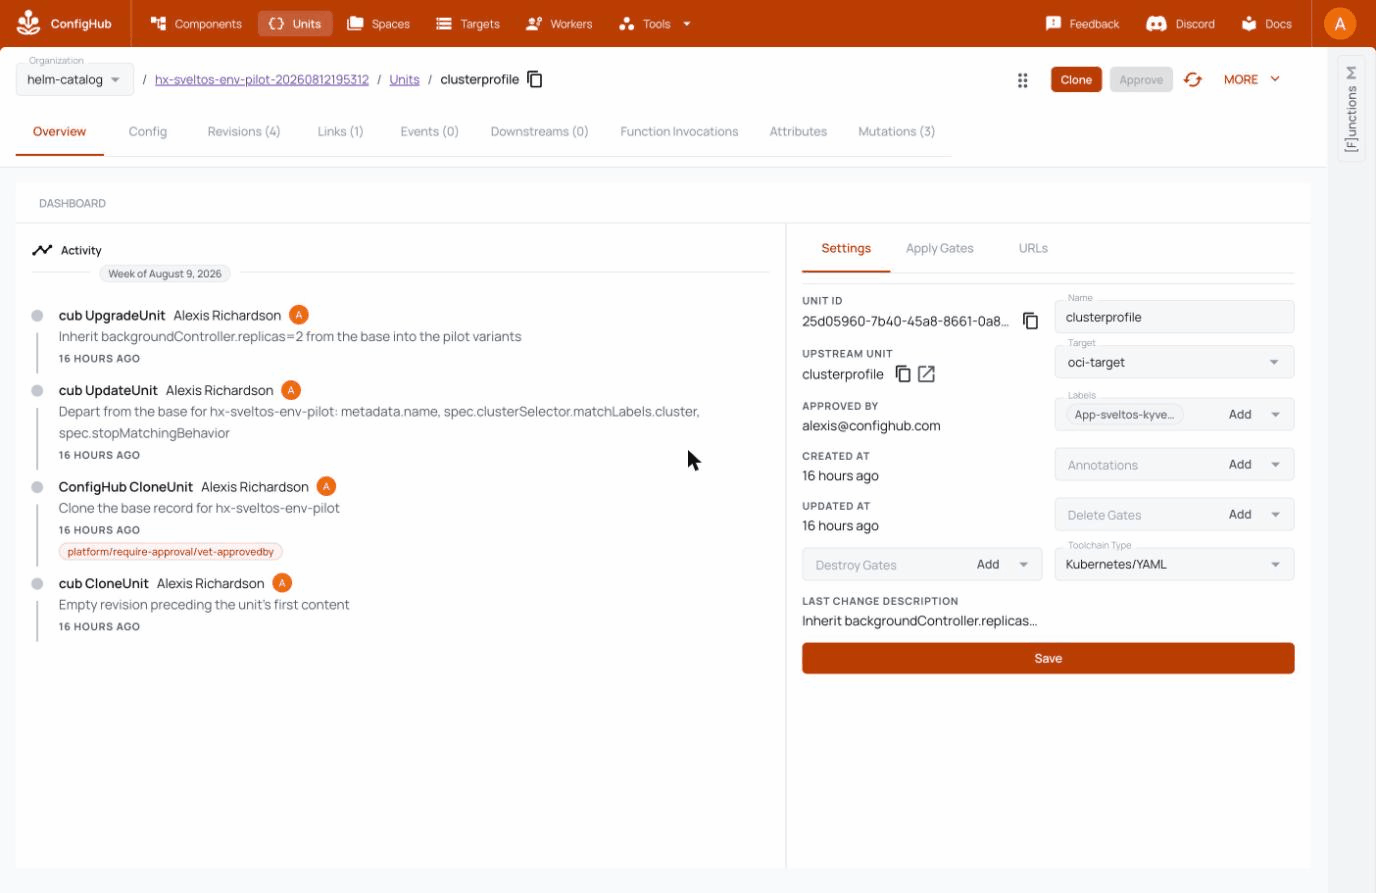
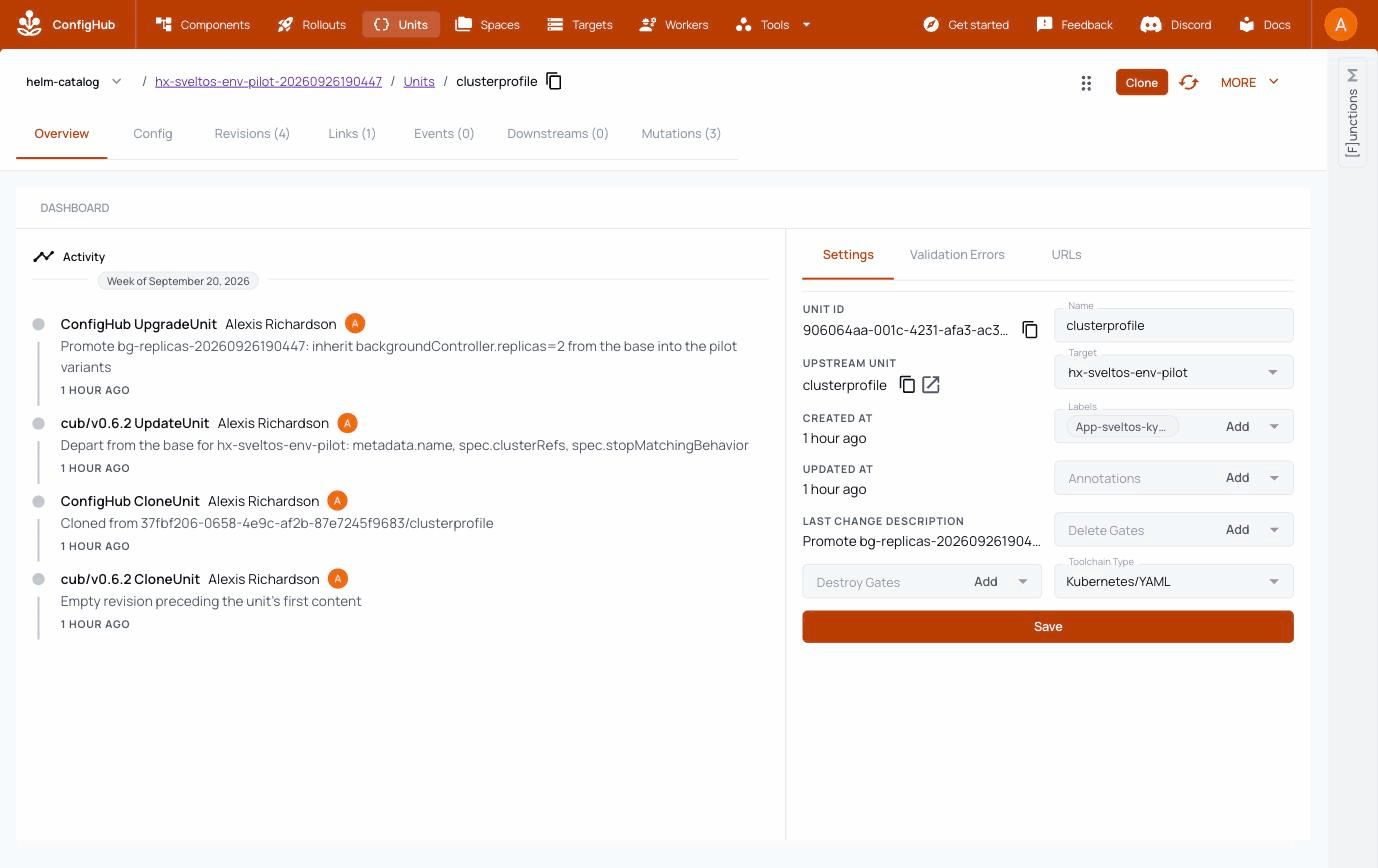
Show the recorded ChangeWorkflow fleet in the README
The two README screenshots came from the August recording: the history
image still showed the clusterSelector departure and the approval gate
ConfigHub has since removed. Both are retaken from the kept Spaces of
chapter three's 2026-09-26 recording, and a third shows the change order
in ConfigHub's Rollouts view: the diff on the base and its promotion path
through pilot, staging and prod, marked complete and unverified because
no health check is declared yet.

The captions now say what each image shows on this design, including
that the unit page does not display approval attestations yet while
`cub attestation list` does.

diff --git a/README.md b/README.md
@@ -117,24 +117,39 @@ This is the recorded chapter-three fleet as ConfigHub shows it: one base
 on the left, one variant per cluster on the right, and every deployment
 card headed by its own named Target — the cluster it ships to is
 ConfigHub's own destination model, not a selector line inside the YAML.
-Each variant sits at its second release after one reviewed change to the
-base, and the base is the dashed node with no Target at all, because the
-base ships nowhere:
+Each variant sits at its second release: the first carried its reviewed
+baseline, the second the one reviewed change to the base. The base is the
+dashed node with no Target at all, because the base ships nowhere, and the
+management record lives in a component of its own, so it is not drawn here:
 
-![One base record fanning out to one variant per cluster](docs/images/sveltos/sveltos-flow-graph.png)
+![One base fanning out to one variant per cluster](docs/images/sveltos/sveltos-flow-graph.png)
 
 The "Not reported yet" chips are the honest part: ConfigHub publishes and
 never connects to the clusters, so live state is not its claim to make.
 Sveltos knows the answer per cluster, and teaching ConfigHub to show
 Sveltos's reading in Sveltos's own words is proposed upstream.
 
-One variant up close, the pilot cluster's, with the whole story in its
-activity: cloned from the base behind the approval gate, departed in
-exactly three fields (its name, the clusterRefs entry that names its
-cluster, its removal behaviour), then inheriting the reviewed base change.
-The approval binds to that record's exact revision:
+The change itself, as ConfigHub's Rollouts view shows it. One change order
+carries the one reviewed edit on the base, `backgroundController.replicas`
+from 1 to 2, and moved it through the workflow's stages: pilot, then
+staging, then both production clusters, each stage entered only after the
+stage ahead had released the change, and each stage's releases published
+only after the change was approved there. "Complete, unverified" is honest
+too: every stage has taken the change, and the workflow declares no health
+check yet, because nothing reports Sveltos's view to ConfigHub:
 
-![The pilot cluster's variant: clone, three departures, inherited change, approval](docs/images/sveltos/sveltos-record-history.png)
+![The change order's promotion path: source, pilot, staging, prod, complete](docs/images/sveltos/sveltos-change-order-rollout.png)
+
+One variant up close, the pilot cluster's, with the whole story in its
+activity: cloned from the base, departed in exactly three fields (its name,
+the clusterRefs entry that names its cluster, its removal behaviour), then
+taking the reviewed base change when the change order was promoted into the
+pilot stage. Its Target is named for its cluster. The approval is an
+attestation on that variant's exact revision, which
+`cub attestation list --space <space>` shows; this page does not show
+attestations yet:
+
+![The pilot cluster's variant: clone, three departures, the promoted change](docs/images/sveltos/sveltos-record-history.png)
 
 Chapter four is fleet patch day with evidence: the patched chart's
 provenance was checked against the reviewed digest before anything was
